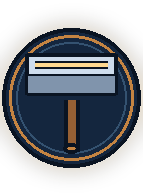
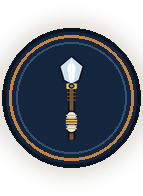
2

Changed region(s): [[0.1678, 0.2449, 0.8392, 0.7959]]

diff --git a/Assets/Scripts/MonsterConfigs.cs b/Assets/Scripts/MonsterConfigs.cs
@@ -68,7 +68,7 @@ public class MonsterConfigs : Configs<MonsterConfigs>
 		_configs["mushroom"] = new MonsterConfig
 		{
 			Id = "mushroom",
-			Name = "菌灯小妖",
+			Name = "幽光蘑菇",
 			DamageMin = 10,
 			DamageMax = 16,
 			HP = 20,
@@ -91,7 +91,7 @@ public class MonsterConfigs : Configs<MonsterConfigs>
 		_configs["woodlog"] = new MonsterConfig
 		{
 			Id = "woodlog",
-			Name = "沉木傀影",
+			Name = "老木影怪",
 			DamageMin = 14,
 			DamageMax = 22,
 			HP = 35,
@@ -114,7 +114,7 @@ public class MonsterConfigs : Configs<MonsterConfigs>
 		_configs["acorn"] = new MonsterConfig
 		{
 			Id = "acorn",
-			Name = "棘壳橡卫",
+			Name = "橡果精灵",
 			DamageMin = 10,
 			DamageMax = 28,
 			HP = 52,
@@ -137,7 +137,7 @@ public class MonsterConfigs : Configs<MonsterConfigs>
 		_configs["chest"] = new MonsterConfig
 		{
 			Id = "chest",
-			Name = "奇境宝匣",
+			Name = "奇境宝箱",
 			DamageMin = 0,
 			DamageMax = 0,
 			HP = 15,
@@ -161,7 +161,7 @@ public class MonsterConfigs : Configs<MonsterConfigs>
 		_configs["chestLocked"] = new MonsterConfig
 		{
 			Id = "chestLocked",
-			Name = "尘封秘匣",
+			Name = "封存秘箱",
 			DamageMin = 0,
 			DamageMax = 0,
 			HP = 1,
@@ -180,7 +180,7 @@ public class MonsterConfigs : Configs<MonsterConfigs>
 		_configs["chestPub"] = new MonsterConfig
 		{
 			Id = "chestPub",
-			Name = "荒野遗匣",
+			Name = "沙地木箱",
 			DamageMin = 0,
 			DamageMax = 0,
 			HP = 1,
@@ -201,7 +201,7 @@ public class MonsterConfigs : Configs<MonsterConfigs>
 		_configs["chestSmall"] = new MonsterConfig
 		{
 			Id = "chestSmall",
-			Name = "玲珑小匣",
+			Name = "细致小箱",
 			DamageMin = 0,
 			DamageMax = 0,
 			HP = 30,
@@ -223,7 +223,7 @@ public class MonsterConfigs : Configs<MonsterConfigs>
 		_configs["chestMedium"] = new MonsterConfig
 		{
 			Id = "chestMedium",
-			Name = "沉甸宝匣",
+			Name = "大号宝箱",
 			DamageMin = 0,
 			DamageMax = 0,
 			HP = 50,
@@ -245,7 +245,7 @@ public class MonsterConfigs : Configs<MonsterConfigs>
 		_configs["chestBig"] = new MonsterConfig
 		{
 			Id = "chestBig",
-			Name = "巨硕宝匣",
+			Name = "巨型宝箱",
 			DamageMin = 0,
 			DamageMax = 0,
 			HP = 90,
@@ -267,7 +267,7 @@ public class MonsterConfigs : Configs<MonsterConfigs>
 		_configs["strawberry"] = new MonsterConfig
 		{
 			Id = "strawberry",
-			Name = "霜莓精",
+			Name = "红莓小怪",
 			DamageMin = 16,
 			DamageMax = 18,
 			HP = 65,
@@ -290,7 +290,7 @@ public class MonsterConfigs : Configs<MonsterConfigs>
 		_configs["dragon"] = new MonsterConfig
 		{
 			Id = "dragon",
-			Name = "幽鳞古龙",
+			Name = "青火巨龙",
 			DamageMin = 16,
 			DamageMax = 44,
 			HP = 86,
@@ -314,7 +314,7 @@ public class MonsterConfigs : Configs<MonsterConfigs>
 		_configs["skeleton"] = new MonsterConfig
 		{
 			Id = "skeleton",
-			Name = "白骨游魂",
+			Name = "灰白死灵",
 			DamageMin = 15,
 			DamageMax = 24,
 			HP = 30,
@@ -337,7 +337,7 @@ public class MonsterConfigs : Configs<MonsterConfigs>
 		_configs["snake"] = new MonsterConfig
 		{
 			Id = "snake",
-			Name = "月斑蛇",
+			Name = "月光蛇",
 			DamageMin = 24,
 			DamageMax = 66,
 			HP = 129,
@@ -360,7 +360,7 @@ public class MonsterConfigs : Configs<MonsterConfigs>
 		_configs["spider"] = new MonsterConfig
 		{
 			Id = "spider",
-			Name = "织影蛛",
+			Name = "暗影毒蛛",
 			DamageMin = 21,
 			DamageMax = 33,
 			HP = 52,
@@ -384,7 +384,7 @@ public class MonsterConfigs : Configs<MonsterConfigs>
 		_configs["ghost"] = new MonsterConfig
 		{
 			Id = "ghost",
-			Name = "夜哭幽魂",
+			Name = "林间幽灵",
 			DamageMin = 15,
 			DamageMax = 42,
 			HP = 78,
@@ -407,7 +407,7 @@ public class MonsterConfigs : Configs<MonsterConfigs>
 		_configs["eye"] = new MonsterConfig
 		{
 			Id = "eye",
-			Name = "窥月之眼",
+			Name = "望月之眼",
 			DamageMin = 24,
 			DamageMax = 27,
 			HP = 98,
@@ -431,7 +431,7 @@ public class MonsterConfigs : Configs<MonsterConfigs>
 		_configs["fishman"] = new MonsterConfig
 		{
 			Id = "fishman",
-			Name = "深潮鱼人",
+			Name = "池沼鱼人",
 			DamageMin = 23,
 			DamageMax = 36,
 			HP = 45,
@@ -477,7 +477,7 @@ public class MonsterConfigs : Configs<MonsterConfigs>
 		_configs["mushroomToxic"] = new MonsterConfig
 		{
 			Id = "mushroomToxic",
-			Name = "蚀毒菌灵",
+			Name = "幽毒蘑菇",
 			DamageMin = 36,
 			DamageMax = 55,
 			HP = 132,
@@ -501,7 +501,7 @@ public class MonsterConfigs : Configs<MonsterConfigs>
 		_configs["salamander"] = new MonsterConfig
 		{
 			Id = "salamander",
-			Name = "焰脊火蜥",
+			Name = "烈火蜥蜴",
 			DamageMin = 23,
 			DamageMax = 63,
 			HP = 117,
@@ -524,7 +524,7 @@ public class MonsterConfigs : Configs<MonsterConfigs>
 		_configs["frog"] = new MonsterConfig
 		{
 			Id = "frog",
-			Name = "沼鸣青蛤",
+			Name = "池边青蛙",
 			DamageMin = 36,
 			DamageMax = 41,
 			HP = 146,

diff --git a/_uitheme/icons.py b/_uitheme/icons.py
@@ -1,0 +1,107 @@
+# -*- coding: utf-8 -*-
+"""按 WeaponConfigs 的真实武器类型，用局内武器图重做面板/奖励图标（圆盘徽章）。"""
+import os, sys, glob
+from PIL import Image, ImageDraw, ImageFilter
+sys.path.insert(0, os.path.dirname(os.path.abspath(__file__)))
+import rewards
+from kit import INK
+
+ROOT = os.path.dirname(os.path.dirname(os.path.abspath(__file__)))
+WROOT = os.path.join(ROOT, "Assets", "Resources", "weapons")
+UROOT = os.path.join(ROOT, "Assets", "Resources", "UI")
+
+# 目录名 -> 武器名（与 WeaponConfigs.Title 对齐）
+WFILES = {
+    "weapon01": "剑", "weapon02": "铁锤", "weapon03": "弓", "weapon04": "铁拳套",
+    "weapon05": "斧", "weapon06": "长矛", "weapon07": "短柄斧", "weapon08": "钉头锤",
+    "weapon09": "苦无", "weapon04bomb": "炸弹",
+}
+
+
+def blank(d, w, h, ow):
+    return None
+
+
+def source_sprite(folder):
+    """取该武器目录下的局内贴图（优先 <folder>.png）。"""
+    base = os.path.join(WROOT, folder)
+    cands = [os.path.join(base, folder + ".png")]
+    cands += sorted(glob.glob(os.path.join(base, "*.png")))
+    for p in cands:
+        if os.path.exists(p) and os.path.basename(p).startswith("UI_") is False \
+           and not os.path.basename(p).startswith("target-shape"):
+            return p
+    return None
+
+
+def compose(size, sprite, fill_ratio=0.70, desaturate=False, crack=False):
+    w, h = size
+    plate = rewards.medallion(size, blank)
+    r = min(w, h) * 0.485
+    src = Image.open(sprite).convert("RGBA")
+    target = 2 * r * fill_ratio
+    s = target / max(src.width, src.height)
+    src = src.resize((max(1, int(src.width * s)), max(1, int(src.height * s))), Image.LANCZOS)
+
+    layer = Image.new("RGBA", size, (0, 0, 0, 0))
+    layer.alpha_composite(src, (int(w / 2 - src.width / 2), int(h / 2 - src.height / 2)))
+    mask = Image.new("L", size, 0)
+    ImageDraw.Draw(mask).ellipse([w / 2 - r * 0.94, h / 2 - r * 0.94,
+                                  w / 2 + r * 0.94, h / 2 + r * 0.94], fill=255)
+    layer.putalpha(Image.composite(layer.split()[3], Image.new("L", size, 0), mask))
+
+    if desaturate:
+        a = layer.split()[3]
+        lum = layer.convert("L")
+        grey = Image.merge("RGB", (lum, lum, lum)).convert("RGBA")
+        grey = Image.blend(grey, Image.new("RGBA", size, (196, 204, 216, 255)), 0.35)
+        grey.putalpha(a)
+        layer = grey
+        d = ImageDraw.Draw(layer, "RGBA")
+        for (p0, p1) in [((w * 0.30, h * 0.18), (w * 0.48, h * 0.46)),
+                         ((w * 0.48, h * 0.46), (w * 0.36, h * 0.72)),
+                         ((w * 0.56, h * 0.24), (w * 0.70, h * 0.58))]:
+            d.line([p0, p1], fill=(54, 60, 76, 230), width=max(2, int(min(w, h) * 0.030)))
+
+    plate.alpha_composite(layer)
+    return plate
+
+
+def main(only=None):
+    n = 0
+    for folder in sorted(WFILES):
+        if only and folder not in only:
+            continue
+        src = source_sprite(folder)
+        if not src:
+            print("!! 找不到源图", folder); continue
+        # 面板图标
+        for suffix in ("", "_broken"):
+            if folder.startswith("weapon04bomb"):
+                p = os.path.join(WROOT, folder, "UI_w_weapon04Bomb%s.png" % suffix)
+            else:
+                idx = folder[-2:]
+                p = os.path.join(WROOT, folder, "UI_w_weapon%s%s.png" % (idx, suffix))
+            if not os.path.exists(p):
+                continue
+            size = Image.open(p).size
+            out = compose(size, src, 0.64, desaturate=bool(suffix), crack=bool(suffix))
+            out.save(p)
+            n += 1
+            print("图标", os.path.basename(p), size)
+        # 奖励图标
+        if folder.startswith("weapon04bomb"):
+            continue
+        idx = folder[-2:]
+        rp = os.path.join(UROOT, "UI_reward_weapon%s.png" % idx)
+        if os.path.exists(rp):
+            size = Image.open(rp).size
+            out = compose(size, src, 0.62)
+            out.save(rp)
+            n += 1
+            print("奖励", os.path.basename(rp), size)
+    print("完成", n)
+
+
+if __name__ == "__main__":
+    main(sys.argv[1:] or None)

diff --git a/_uitheme/extra.py b/_uitheme/extra.py
@@ -9,8 +9,10 @@ import build as B
 
 ROOT = os.path.dirname(os.path.dirname(os.path.abspath(__file__)))
 
-WKIND = {"01": "sword", "02": "dagger", "03": "axe", "04": "bow", "04Bomb": "bomb",
-         "05": "staff", "06": "hammer", "07": "spear", "08": "scythe", "09": "mace"}
+# !! 已废弃：这套映射与 WeaponConfigs 的真实武器名不符（导致 02 铁锤画成剑）。
+# 武器图标请统一用 icons.py 生成（它直接取局内 weapon0X.png，形状 100% 一致）。
+WKIND = {"01": "sword", "02": "hammer", "03": "bow", "04": "fist", "04Bomb": "bomb",
+         "05": "axe", "06": "spear", "07": "handaxe", "08": "mace", "09": "kunai"}
 
 
 def bomb(d, w, h, ow):

diff --git a/Assets/Scripts/HeroConfigs.cs b/Assets/Scripts/HeroConfigs.cs
@@ -13,7 +13,7 @@ public class HeroConfigs : Configs<HeroConfigs>
 		_configs["hero00"] = new HeroConfig
 		{
 			Id = "hero00",
-			Name = "提奥巴德",
+			Name = "卡林德尔",
 			HpMaxBase = 60,
 			HpLevelUpPriceVariant = 100,
 			MissRate = 0.08f
